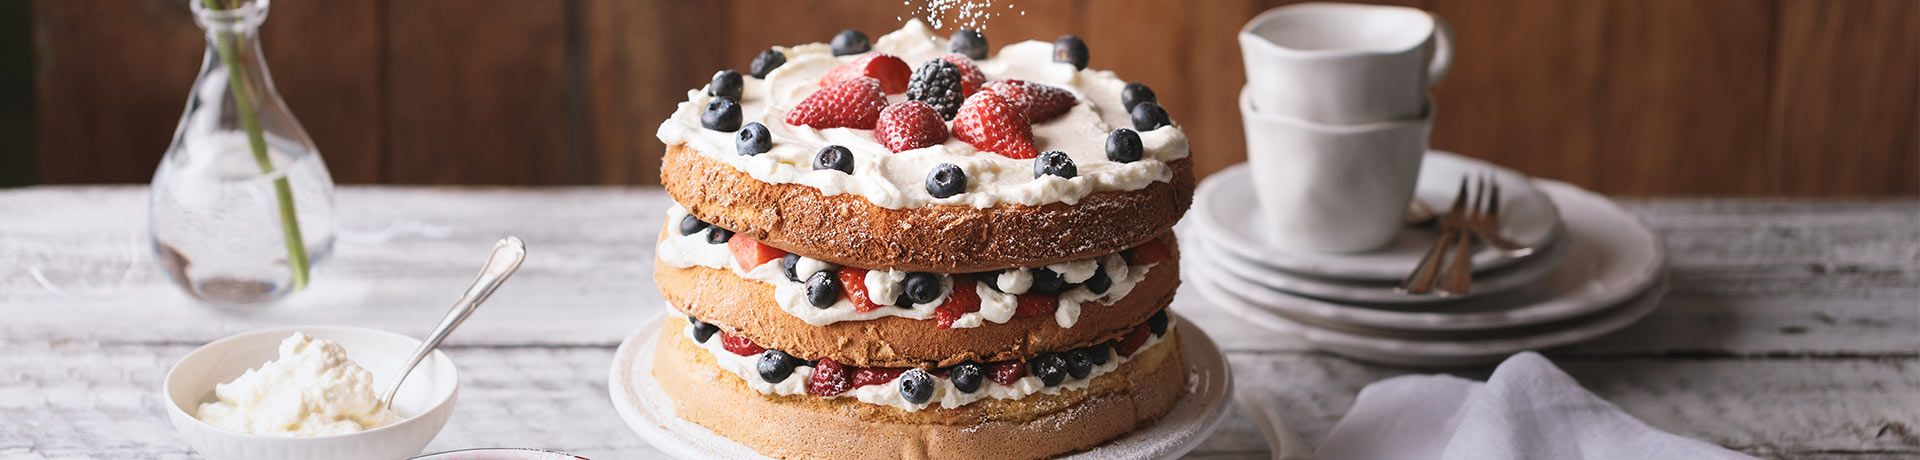
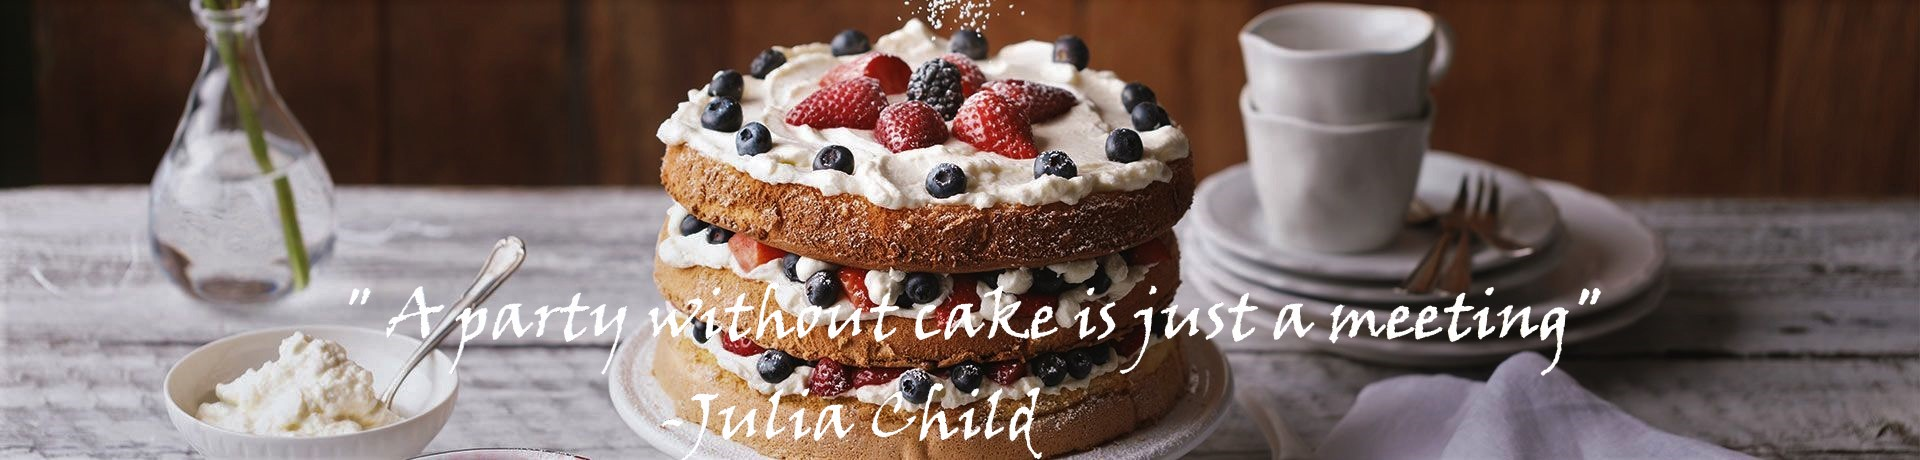
Added review reel with pictures and created a contact form

diff --git a/SweetestCreations/wwwroot/css/site.css b/SweetestCreations/wwwroot/css/site.css
@@ -51,16 +51,11 @@ body{
     color: deeppink !important;
     font-size:30px;
     font-family:'Brush Script MT'
-    
-    
 }
 #topNavHomeTitle{
     color: white;
     font-size: 55px;
     font-family:'French Script MT';
-  
-
-
 }
 #topNavSection {
     margin-top: -58px;
@@ -75,3 +70,11 @@ body{
 * {
     box-sizing: border-box
 }
+#Quote{
+    font-family:'Bookman Old Style';
+    font-size:55px;
+    color:aliceblue;
+
+
+}
+
